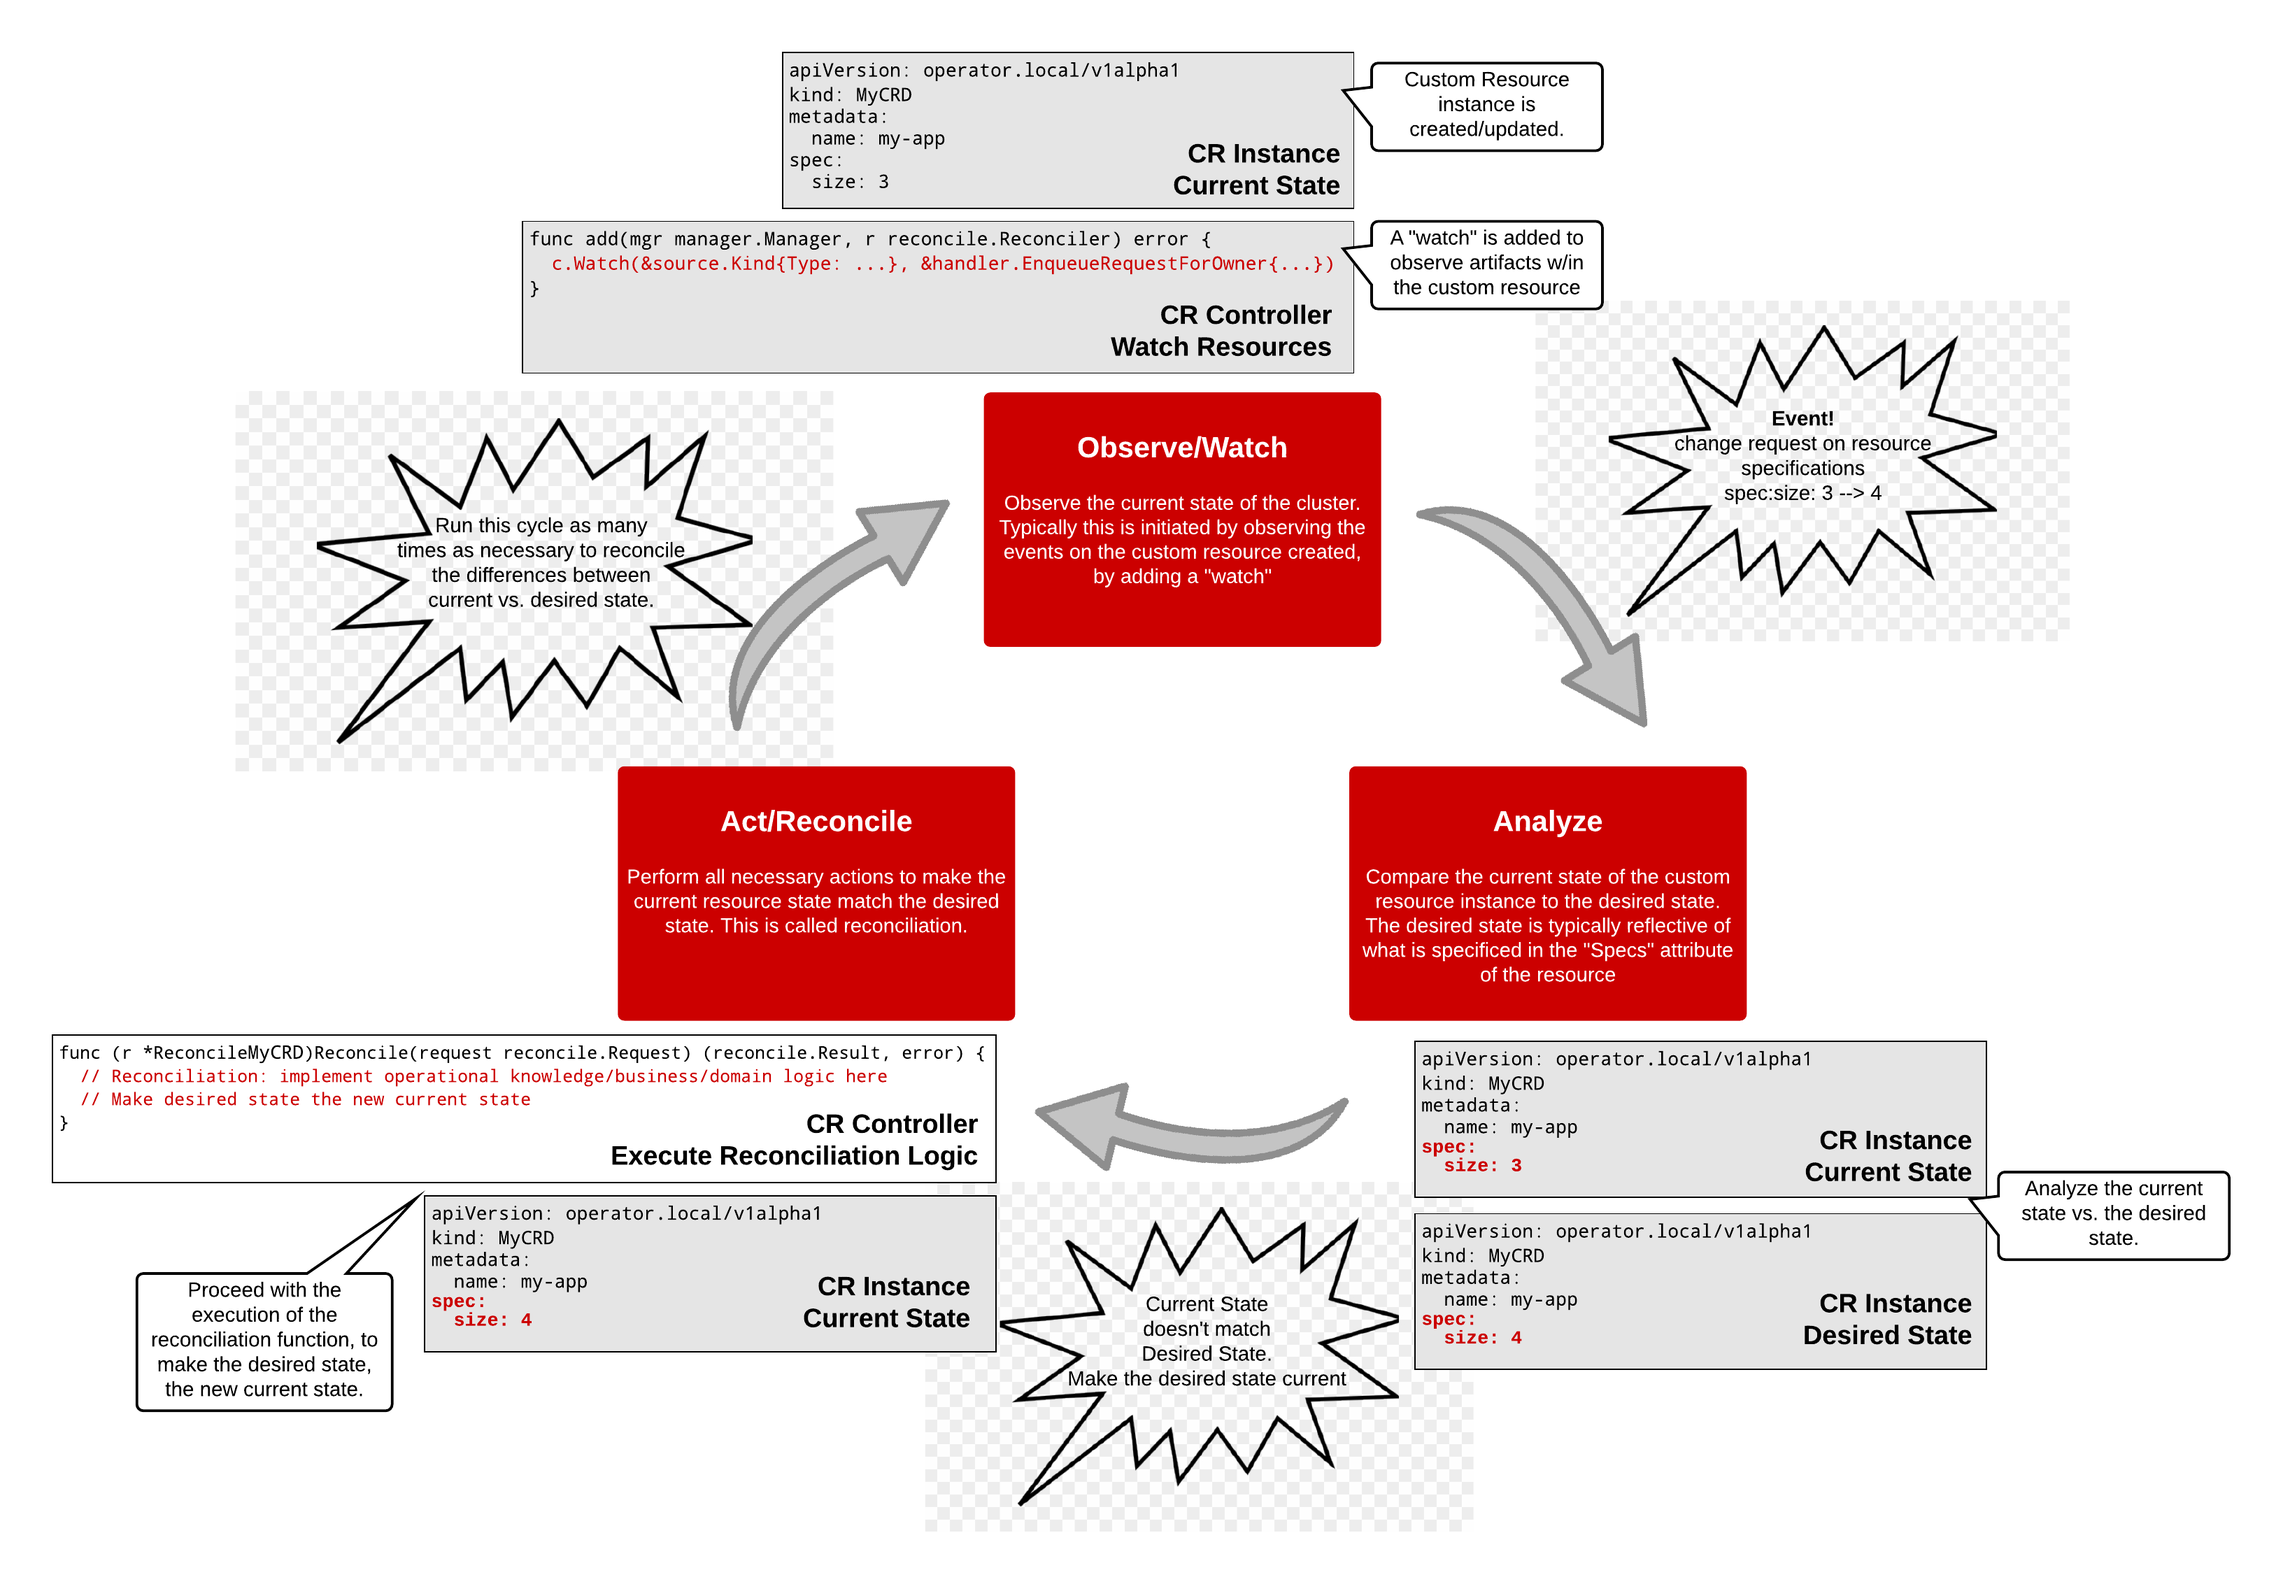
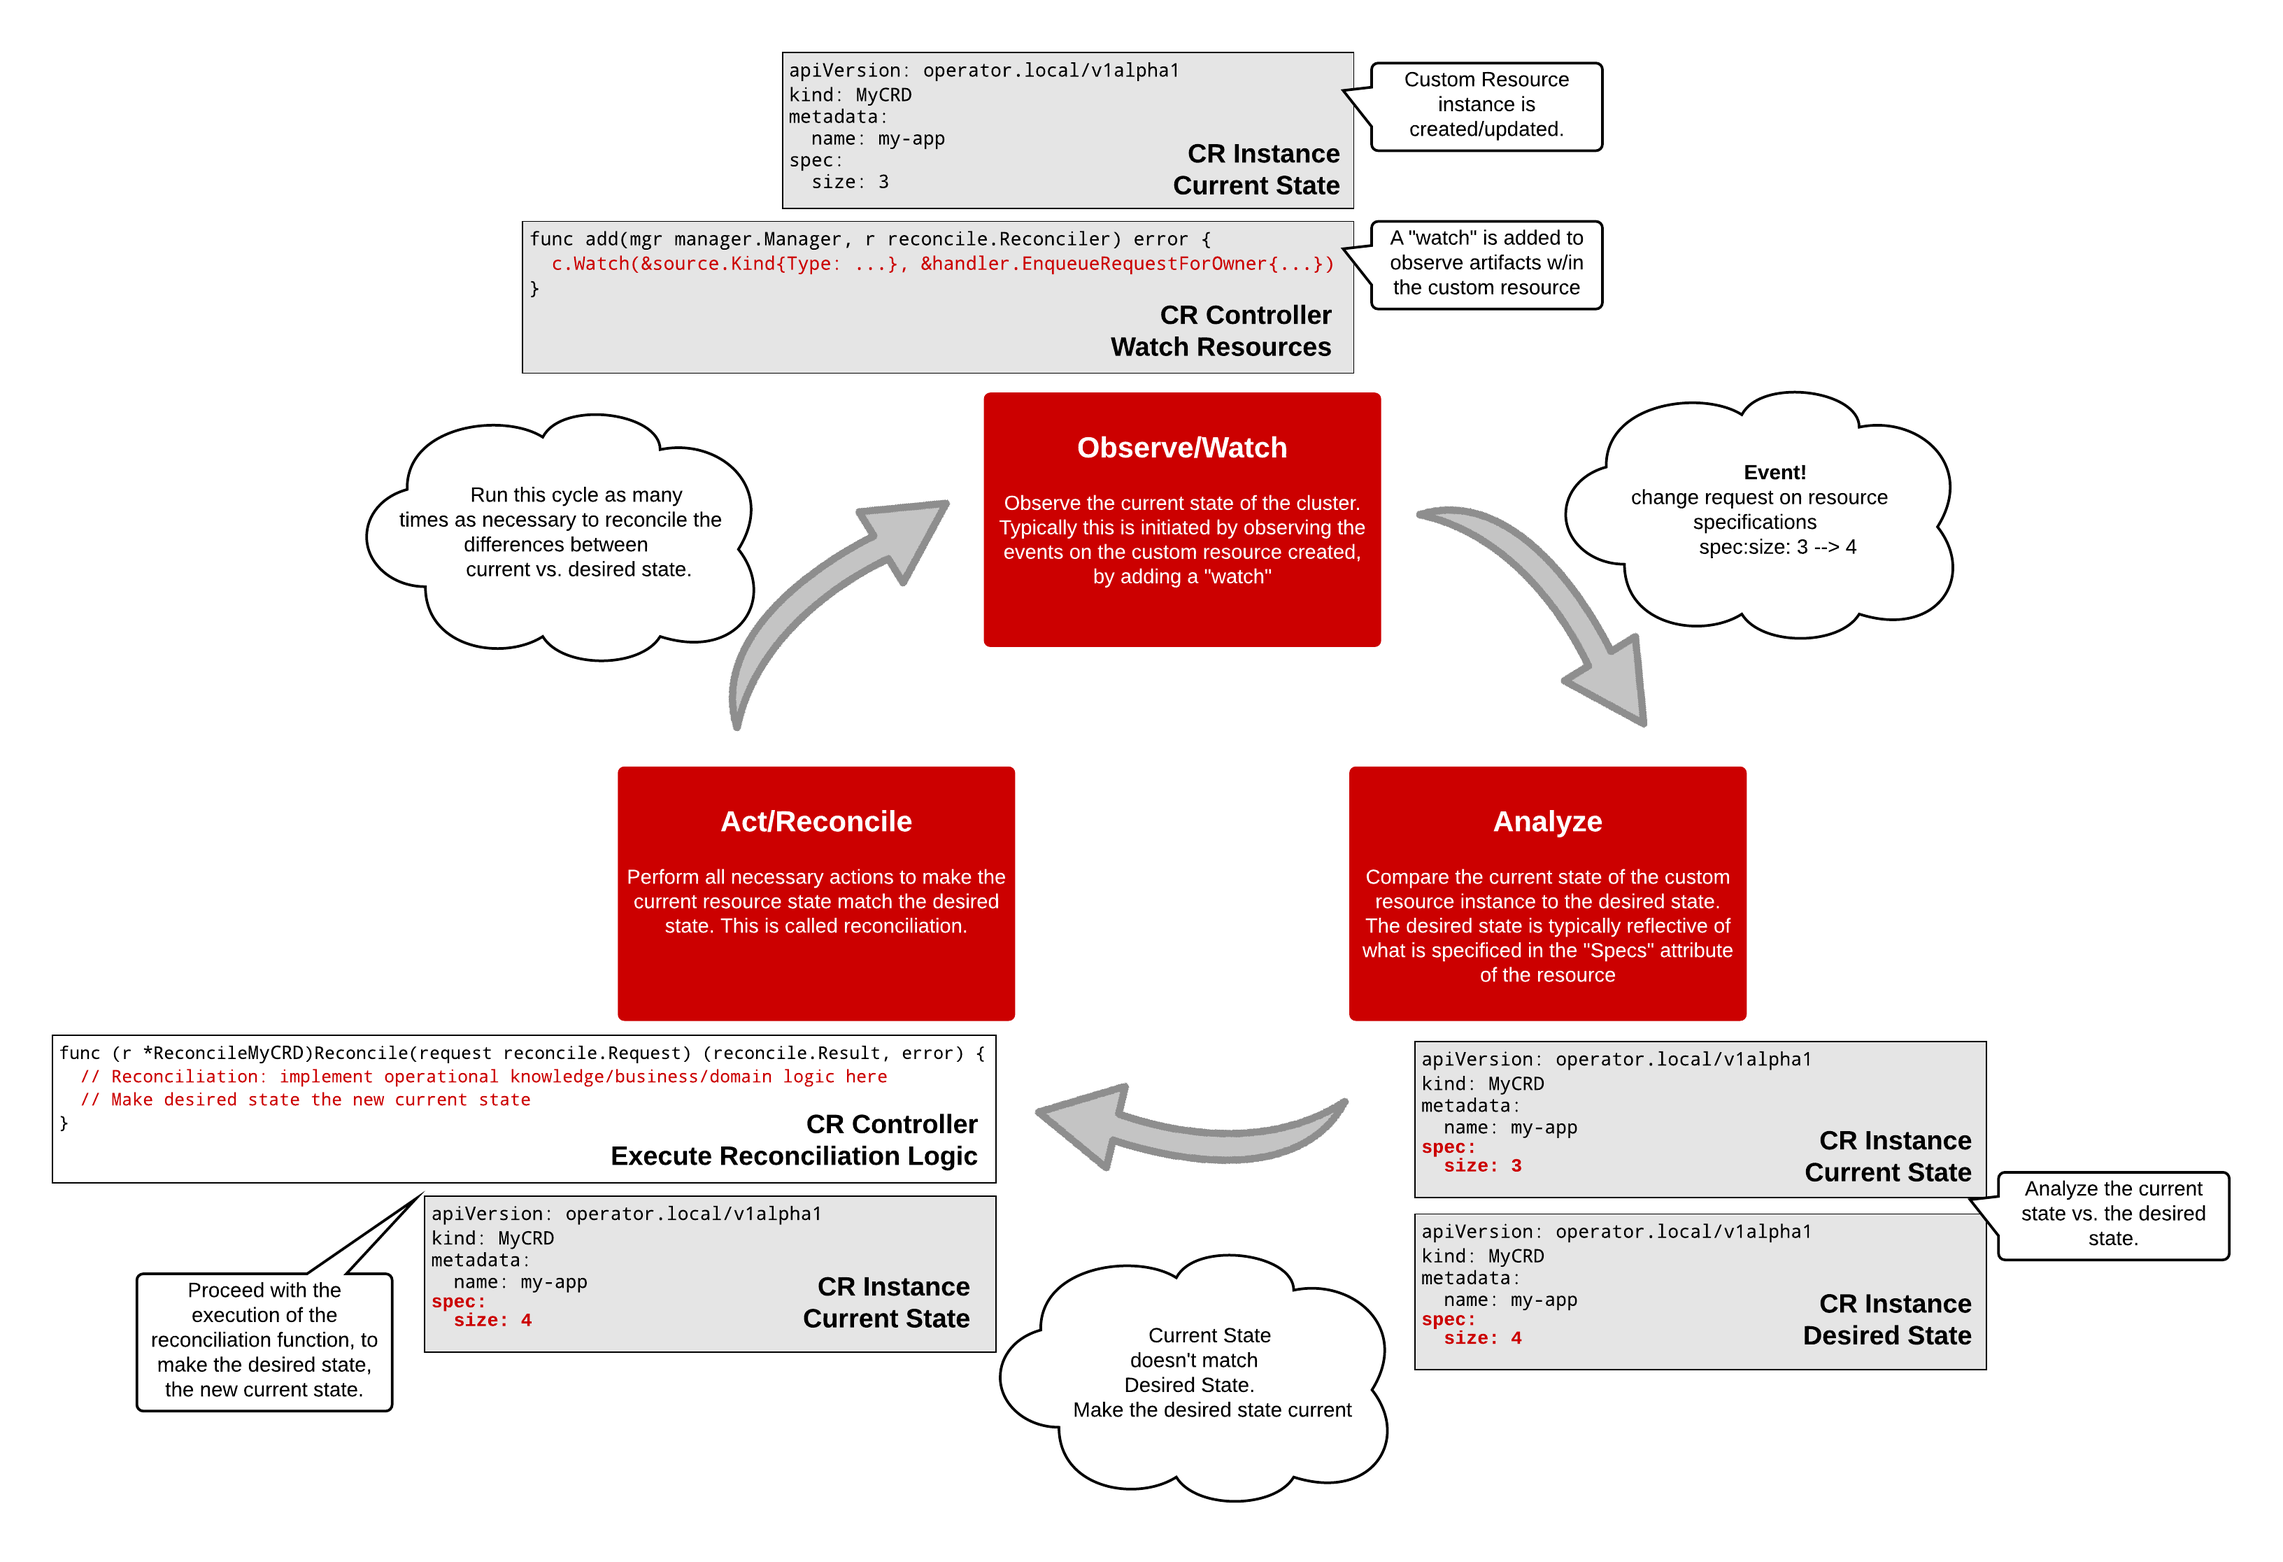
update docs

Changed region(s): [[0.0312, 0.0309, 0.9688, 0.9579], [0.4375, 0.4017, 0.5938, 0.4326]]

diff --git a/docs/02/01-golang-operators-overview.md b/docs/02/01-golang-operators-overview.md
@@ -191,7 +191,9 @@ We won't go into the specifics of filling out the template here. For now, we are
 
 In this phase, the resource controller compares the current state of the resource instance to the desired state. The desired state is typically reflective of what is specified in the `spec` attributes of the resource. 
 
-When we request a modification on the resource, then that calls for a modification to the current state of the resource. An example of request like this would be if we wanted to change the `spec: size: 3` to `spec: size: 4` of the resource. 
+An example of request like this would be if we wanted to change the `spec: size: 3` to `spec: size: 4` of the resource. 
+
+![](../assets/current-state-desired-state.png)
 
 ## Act/Reconcile
 
